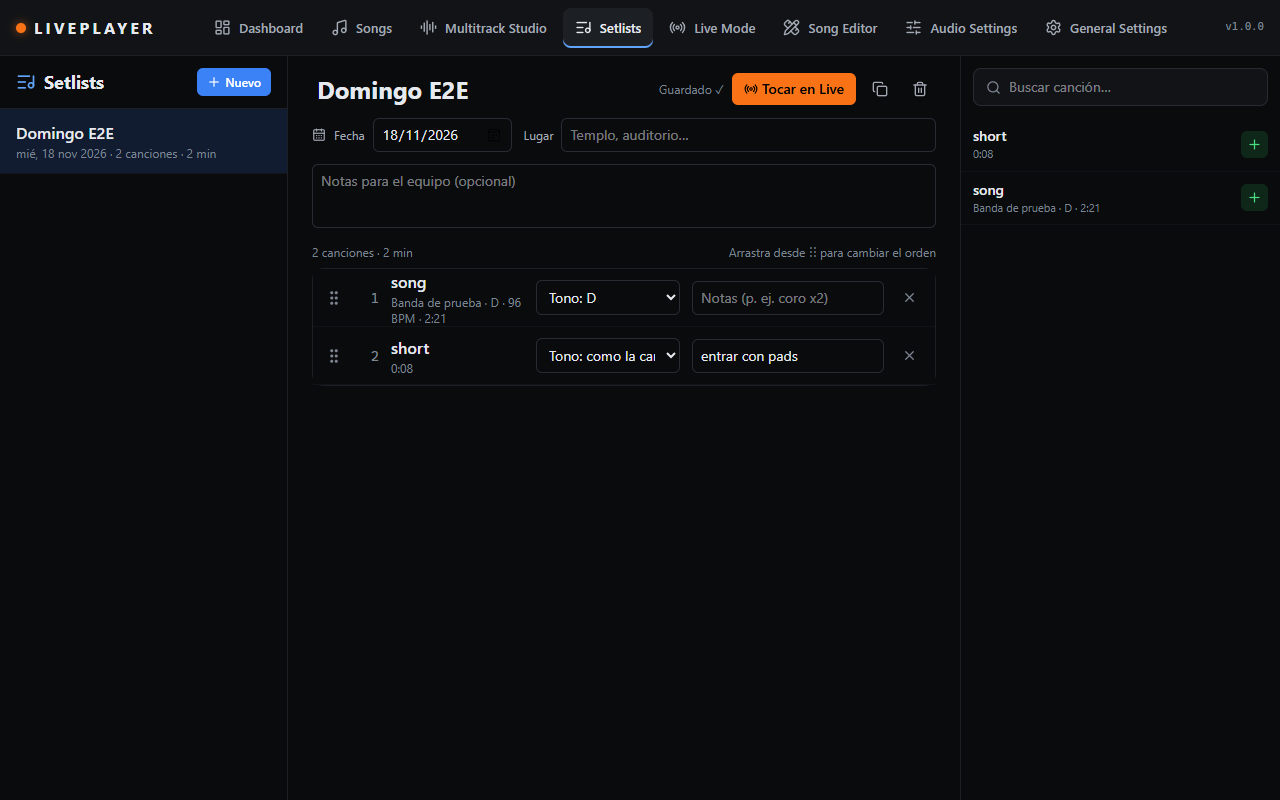
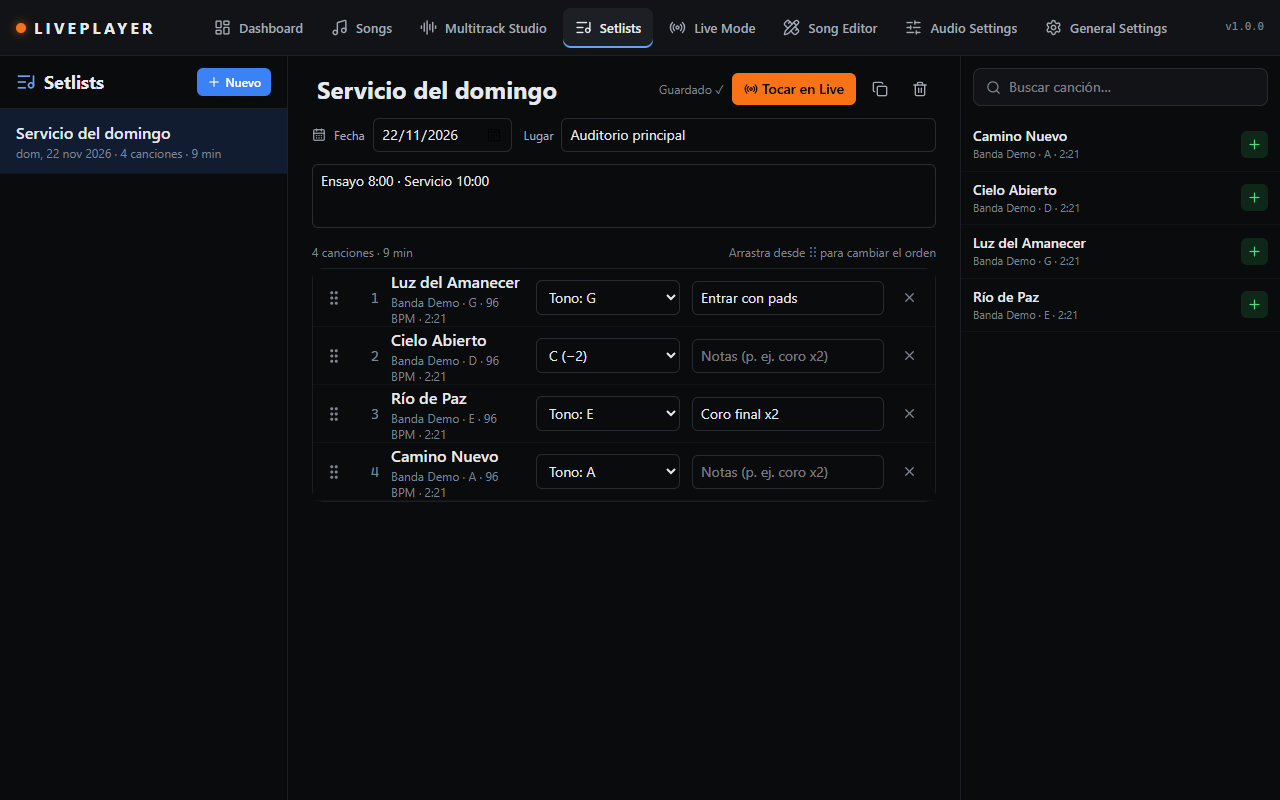
docs: presentable README screenshots from a demo library (scripts/readme-shots.mjs), library screenshot; status: phase 7 merged at the user's request

diff --git a/DEVELOPMENT_STATUS.md b/DEVELOPMENT_STATUS.md
@@ -3,8 +3,8 @@
 | | |
 |---|---|
 | **Fase actual** | **FASE 7 — INSTALADORES PARA COMPARTIR LA APP** |
-| **Estado** | Instalador de Windows listo y probado en este equipo. ⏳ **Falta la prueba de instalación desde cero en otra computadora, que se hará junto con el usuario**, y después su aprobación |
-| **Rama** | `feature/phase-7-installers` (se fusionará en `main` cuando se apruebe) |
+| **Estado** | Instalador de Windows listo y probado en este equipo. **Fusionada en `main` a pedido del usuario (2026-11-18).** ⏳ Pendiente: la prueba de instalación desde cero en otra computadora, junto con el usuario, y la versión de Mac |
+| **Rama** | `feature/phase-7-installers` (fusionada en `main`) |
 | **Versión** | **1.0.0** |
 | **Fecha** | 2026-11-17 |
 | **Fases anteriores** | Fases 1 a 6 ✅ (informes en [`docs/fases/`](docs/fases/)) |
@@ -23,6 +23,7 @@
   - se puede **escribir el inicio y el final exactos** con decimales (`1:23.45` o `1:23,45`);
   - flechas ‹ › para ajustar fino, de a **1 tiempo, 0,1 s o 0,01 s**;
   - el final de una parte es el inicio de la siguiente (sin huecos, para que los saltos en Live siempre tengan destino).
+- **README** con qué hace la app, cómo funciona, guía de uso y capturas presentables (biblioteca de demostración; nunca la del usuario). Se regeneran con `node scripts/readme-shots.mjs <exe> ../../docs/img` en `apps/desktop`.
 - **Revisión de robustez** (sin agregar carga):
   - **clics rápidos**: en tono, tempo ±1, flechas de las partes (Song Editor y Studio), cada clic cuenta. Antes, dos clics rápidos podían contar como uno;
   - **buscador de canciones** del Studio: la lista se carga al abrirse los resultados, no solo al recibir el foco;
@@ -53,13 +54,14 @@ Leyenda: ✅ Implementado y probado · ⏳ Pendiente
 | UI (Vitest) | ✅ 45/45 (nueva: leer tiempos escritos) |
 | Motor C++ (4 suites) | ✅ 4/4, dos ejecuciones seguidas |
 | Rust (`liveplayer-db` 15, `liveplayer-engine` 2, `liveplayer-desktop` 8) | ✅ |
-| E2E sobre la app real | ✅ **119/119** (nuevas: Acerca de, tiempos exactos con decimales, flecha fina, renombrar pista y cambiar instrumento desde el Song Editor) |
+| E2E sobre la app real | ✅ **120/120** (incluye que la forma de onda del Song Editor se vea con su altura) (nuevas: Acerca de, tiempos exactos con decimales, flecha fina, renombrar pista y cambiar instrumento desde el Song Editor) |
 | Resistencia a 2×: 10 min de audio (12 cambios de canción, 84 saltos, 29 bucles, 59 tempo, 47 tono) | ✅ 0 cortes, 0 muestras inválidas |
 
 ### Corregido durante la fase
 - **La app necesitaba `MSVCP140.dll`** (el runtime de C++ de Microsoft). En un Windows recién instalado no habría abierto. Ahora todo va dentro del `.exe` (`.cargo/config.toml` y el motor con `/MT`).
 - El motor seguía diciendo versión 0.6.0; ahora 1.0.0.
 - Dos clics rápidos en «Subir medio tono» podían contar como uno (encontrado por la prueba E2E). Lo mismo pasaba con tempo ±1 y las flechas de las partes.
+- La forma de onda y las partes del Song Editor se aplastaban a altura 0 cuando la página era más alta que la ventana (al agregar «Pistas»). Corregido y cubierto por la prueba E2E.
 - El buscador de canciones del Studio podía quedarse vacío si la ventana estaba en segundo plano al recibir el foco.
 - La prueba automática de resistencia corría a 6× la velocidad real y fallaba 1 de cada 3 veces con un solo corte (a 6× el margen es de 25 ms, frente a 150 ms en uso normal; ya estaba en el informe de la fase 6). Ahora corre a 2×, que es el mismo margen que en uso real. La de 6× sigue disponible a mano: `liveplayer_soak <carpeta> 60 6`.
 
